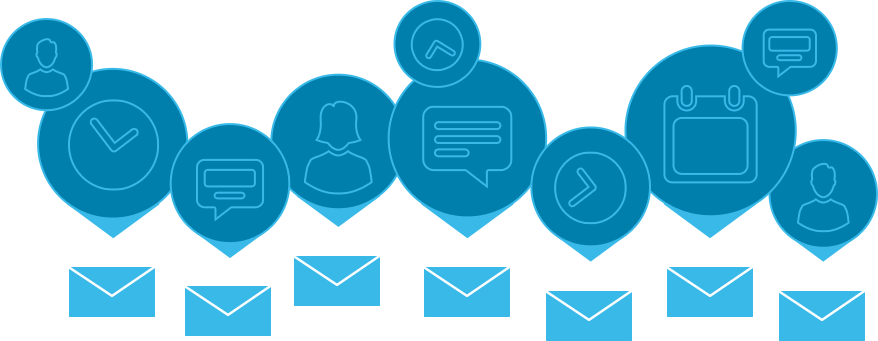
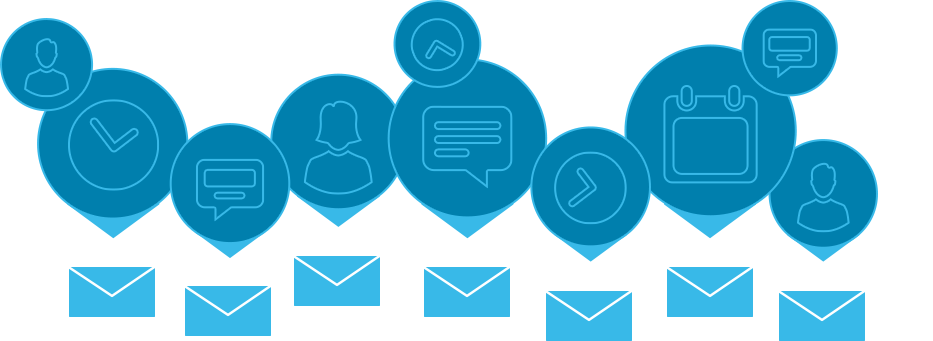
Basic Responsiveness

diff --git a/source/stylesheets/_layout.css.sass b/source/stylesheets/_layout.css.sass
@@ -1,4 +1,4 @@
-.container
+.container-fluid
   text-align: center
 
 img
@@ -37,7 +37,7 @@ button, .btn, a
     margin-bottom: 0
     position: relative
 
-    .container
+    .container-fluid
       width: 100%
       max-width: 100%
       margin-top: -3em
@@ -84,15 +84,17 @@ button, .btn, a
           stroke-width: 7
           stroke-linejoin: miter
 
-    .container
+    .container-fluid
       z-index: 100
-      padding: 8em 0
+      padding-top: 8em
+      padding-bottom: 8em
       position: relative
 
       .row > div
         text-align: center
 
         img
+          padding: 0 1rem
           max-width: 18em
           margin: 0 auto 2.5em
 
@@ -108,11 +110,13 @@ button, .btn, a
           stroke: $brand-info
 
       h3
+        padding: 0 1rem
         max-width: 30em
         margin: 0 auto 2em
 
       .row > div
-        padding: 0 1em
+        padding-top: 1em
+        padding-bottom: 1em
 
         p
           font-size: 90%
@@ -138,14 +142,14 @@ button, .btn, a
         &:last-child
           margin-bottom: -1px
 
-      .container
-
     /*-----------  Emails Section  -----------*/
 
     &#emails
       background-color: white
 
-      .btn
+      .email-count
+        white-space: normal
+        pointer-events: none
         box-shadow: 0 0 1em 0.33em rgb(255, 255, 255)
 
       &:before

diff --git a/source/stylesheets/components/_email-bar.sass b/source/stylesheets/components/_email-bar.sass
@@ -118,8 +118,8 @@
 
   &.blink
     animation-name: pulse
-    animation-duration: 0.33s
-    animation-iteration-count: 2
+    animation-duration: 0.67s
+    animation-iteration-count: 1
 
 /*-----------  Animation -----------*/
 

diff --git a/source/stylesheets/components/_show-more.sass b/source/stylesheets/components/_show-more.sass
@@ -4,7 +4,6 @@
   opacity: 0
   bottom: -3rem
   color: white
-  position: absolute
   text-align: center
   transition: opacity 0.25s ease-out, bottom 0.75s ease-in-out
   @include horizontal-align()
